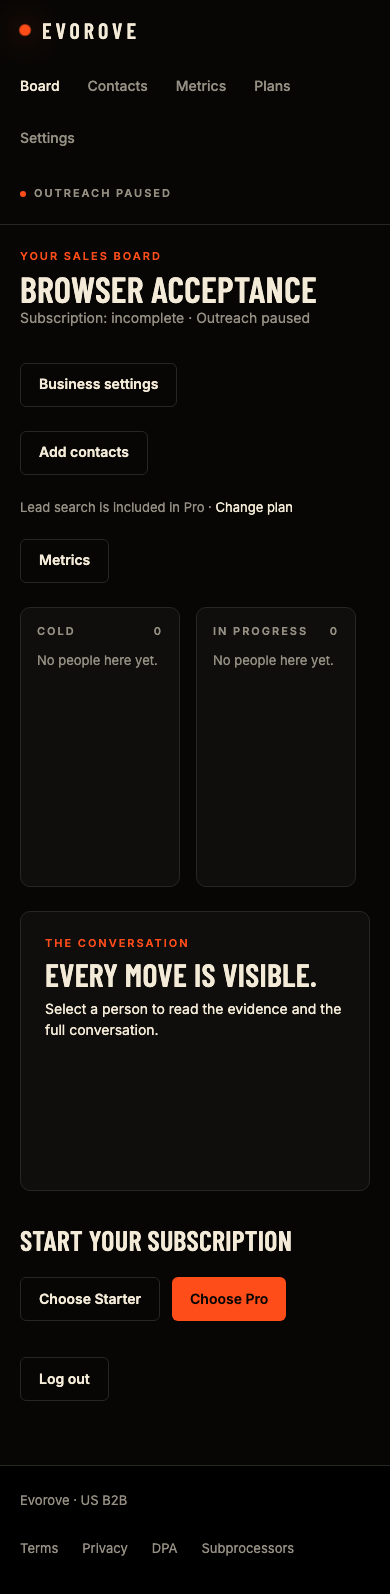
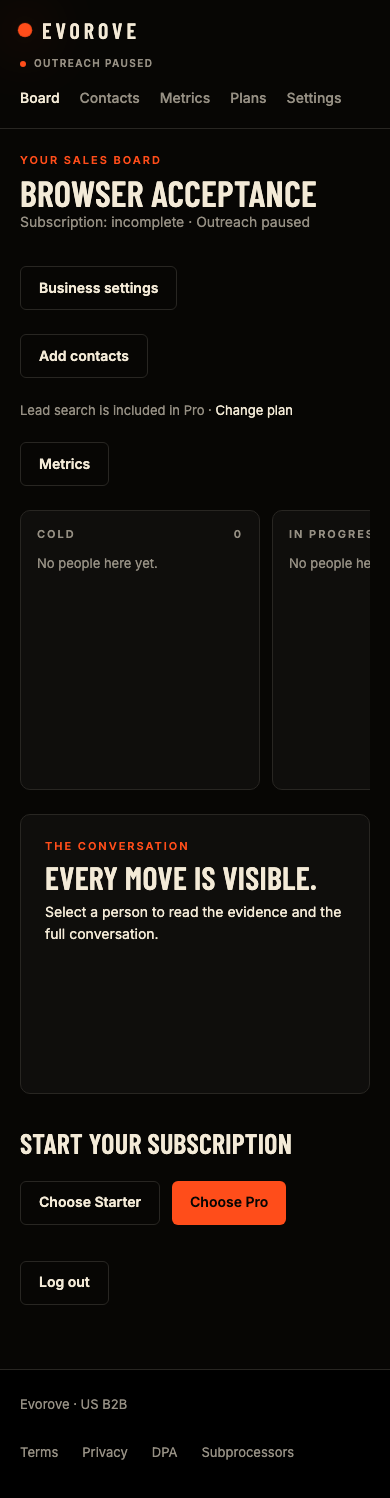
Fix night-theme contrast, offer grid, and phone board.
Keep primary button text dark on orange, show the offer as a 2×2 grid, and let the phone board scroll its four columns inside the page.

diff --git a/app/static/style.css b/app/static/style.css
@@ -17,7 +17,7 @@ h2{margin-bottom:12px;font-weight:600;font-size:clamp(32px,5vw,40px);line-height
 h3{font-size:17px;font-weight:600;line-height:1.35}
 p,li{line-height:1.55}
 a{color:var(--text);text-decoration:none;min-height:44px;display:inline-flex;align-items:center}
-a:hover{color:var(--accent)}
+a:hover:not(.ev-btn-primary):not(.button){color:var(--accent)}
 button,.button,.ev-btn-primary,.ev-btn-ghost{display:inline-flex;align-items:center;justify-content:center;min-height:44px;padding:12px 18px;border-radius:6px;font-family:Inter,system-ui,sans-serif;font-weight:600;font-size:14px;line-height:1.2;cursor:pointer;text-decoration:none}
 button,.button,.ev-btn-primary{background:var(--accent);color:var(--on-accent);border:0}
 button:hover,.button:hover,.ev-btn-primary:hover{background:var(--accent-hover);color:var(--on-accent)}
@@ -36,7 +36,7 @@ footer.site-footer{background:var(--finale);border-top:1px solid var(--line)}
 .footer-inner a{color:var(--muted);padding:12px 0}
 .site-header{max-width:1280px;margin:0 auto;padding:28px clamp(20px,5vw,48px);display:flex;flex-wrap:wrap;gap:16px;align-items:center;justify-content:space-between}
 .site-header nav,.app-header nav{display:flex;flex-wrap:wrap;gap:8px 28px;align-items:center;font-size:14px;font-weight:500}
-.site-header nav a{color:var(--muted);padding:10px 0}
+.site-header nav a:not(.ev-btn-primary){color:var(--muted);padding:10px 0}
 .site-header nav a[href="/login"]{color:var(--text)}
 .site-header .ev-btn-primary{padding:10px 18px;font-size:14px}
 .brand{gap:14px;color:var(--text);min-height:44px}
@@ -101,8 +101,8 @@ body.landing main{max-width:none;margin:0;padding:0}
 .board-frame{align-self:center;max-width:100%;border-radius:10px;border:1px solid var(--line);overflow:hidden}
 .ev-board-scale{width:1440px;height:900px;zoom:.82}
 .offer{padding-top:96px}
-.feature-grid{display:grid;grid-template-columns:repeat(auto-fit,minmax(min(300px,100%),1fr));gap:1px;background:var(--line);border:1px solid var(--line);border-radius:10px;overflow:hidden}
-.feature-grid article{background:var(--bg);padding:32px;display:flex;flex-direction:column;gap:10px}
+.feature-grid{display:grid;grid-template-columns:repeat(2,minmax(0,1fr));gap:1px;background:var(--line);border:1px solid var(--line);border-radius:10px;overflow:hidden}
+.feature-grid article{background:var(--bg);padding:32px;display:flex;flex-direction:column;gap:10px;min-width:0}
 .feature-grid p{margin:0;color:var(--muted)}
 .pricing-grid{display:grid;grid-template-columns:repeat(auto-fit,minmax(min(320px,100%),1fr));gap:24px}
 .price-card{background:var(--card);border:1px solid var(--line);border-radius:10px;padding:clamp(24px,6vw,36px);display:flex;flex-direction:column;align-items:flex-start;gap:24px}
@@ -162,11 +162,12 @@ details p{margin:12px 0 8px;color:var(--muted)}
 .bm-evidence a{font-size:13px;color:var(--muted);min-height:44px}
 .bm-next{margin:auto 0 0;font-size:13px;color:var(--muted)}
 
-.app-header{min-height:72px;padding:8px clamp(20px,5vw,48px);border-bottom:1px solid var(--line);display:flex;flex-wrap:wrap;align-items:center;justify-content:space-between;gap:12px 28px}
+.app-header{min-height:72px;padding:8px clamp(20px,5vw,48px);border-bottom:1px solid var(--line);display:grid;grid-template-columns:auto minmax(0,1fr) auto;align-items:center;gap:12px 28px;max-width:100%}
 .app-header .brand{gap:12px}
 .app-header .brand strong{font-size:22px;letter-spacing:.18em;font-weight:600}
 .app-header .ev-dot{width:10px;height:10px}
-.app-header nav a{color:var(--muted);padding:10px 0;font-weight:500}
+.app-header nav{min-width:0;justify-content:center}
+.app-header nav a{color:var(--muted);padding:10px 0;font-weight:500;white-space:nowrap}
 .app-header nav a[aria-current="page"],.app-header nav a:hover{color:var(--text)}
 .app-status{margin:0;display:flex;align-items:center;gap:8px;min-height:44px;font-size:11px;font-weight:600;letter-spacing:.18em;text-transform:uppercase;color:var(--muted)}
 .status-dot{width:6px;height:6px;border-radius:999px;background:var(--accent);display:inline-block;flex:none}
@@ -224,11 +225,32 @@ code{color:var(--text)}
 .htmx-request{opacity:.65}
 :focus-visible{outline:3px solid var(--accent);outline-offset:3px}
 ::selection{background:var(--accent);color:var(--on-accent)}
+.site-header nav a.ev-btn-primary,
+a.ev-btn-primary,
+button.ev-btn-primary,
+a.button:not(.secondary){background:#ff4d1a;color:#070604}
+.site-header nav a.ev-btn-primary:hover,
+a.ev-btn-primary:hover,
+button.ev-btn-primary:hover,
+a.button:not(.secondary):hover{background:#e04417;color:#070604}
 
 @media(max-width:1280px){.ev-board-scale{zoom:.6}}
 @media(max-width:1050px){.workspace{flex-direction:column}#person-pane{width:100%}}
 @media(max-width:900px){.ev-board-scale{zoom:.42}}
-@media(max-width:720px){.ev-nav-link{display:none}.ev-blip{font-size:9px;letter-spacing:.12em}}
+@media(max-width:720px){
+.ev-nav-link{display:none}
+.ev-blip{font-size:9px;letter-spacing:.12em}
+.feature-grid{grid-template-columns:minmax(0,1fr)}
+.workspace{flex-direction:column;min-width:0;max-width:100%}
+.board{display:flex;flex-wrap:nowrap;width:100%;max-width:100%;min-width:0;overflow-x:auto;scroll-snap-type:x mandatory;gap:12px}
+.column{display:flex;flex:0 0 240px;width:240px;scroll-snap-align:start}
+#person-pane{width:100%}
+.app-header{grid-template-columns:minmax(0,1fr);align-items:start;gap:4px 0}
+.app-header .brand{grid-row:1}
+.app-status{grid-row:2;min-height:0;margin:0;font-size:10px;letter-spacing:.14em;justify-self:start}
+.app-header nav{grid-row:3;width:100%;max-width:100%;min-width:0;flex-wrap:nowrap;justify-content:flex-start;overflow-x:auto;gap:20px}
+.app-header nav a{flex:none}
+}
 @media(max-width:600px){.ev-hero-h1{font-size:clamp(84px,26vw,140px) !important}.ev-board-scale{zoom:.24}.page-heading{align-items:flex-start}}
 @media(max-width:360px){.ev-board-scale{zoom:.19}}
 @media(prefers-reduced-motion:reduce){.ev-dot,.ev-ring,.ev-sweep,.ev-blip{animation:none}}

diff --git a/app/templates/pricing_cards.html b/app/templates/pricing_cards.html
@@ -1,1 +1,1 @@
-<div class="pricing-grid"><article class="price-card"><p class="eyebrow">Starter · Your contacts</p><h3>Put your contacts<br>into motion.</h3><p class="price">$199<span>/month</span></p><ul><li>Sell to contacts you add by CSV or one at a time</li><li>A first email grounded in the real pain you describe</li><li>Email replies and objection handling</li><li>Your offer with your payment link</li><li>Payment recorded → Done on your board</li></ul><p class="muted">Lead search is included in Pro.</p>{% if business is defined %}<form method="post" action="{{ '/billing/portal' if business.ls_subscription_id else '/billing/checkout/starter' }}"><input type="hidden" name="csrf" value="{{ csrf }}"><button class="secondary">Choose Starter</button></form>{% else %}<a class="button secondary" href="/signup">Choose Starter</a>{% endif %}<p>Cancel anytime.</p></article><article class="price-card featured"><p class="eyebrow">Pro · Find and sell</p><h3>Find the pain.<br>Keep the sale moving.</h3><p class="price">$499<span>/month</span></p><ul><li>Everything in Starter</li><li>Search for US companies with visible pain</li><li>Evidence quotes and source links on each found person</li><li>Daily lead search across US companies</li><li>Search preview before adding people to your board</li></ul><p class="muted">Search volume depends on verified matches.</p>{% if business is defined %}<form method="post" action="{{ '/billing/portal' if business.ls_subscription_id else '/billing/checkout/pro' }}"><input type="hidden" name="csrf" value="{{ csrf }}"><button class="">Choose Pro</button></form>{% else %}<a class="button " href="/signup">Choose Pro</a>{% endif %}<p>Cancel anytime.</p></article></div>
+<div class="pricing-grid"><article class="price-card"><p class="eyebrow">Starter · Your contacts</p><h3>Put your contacts<br>into motion.</h3><p class="price">$199<span>/month</span></p><ul><li>Sell to contacts you add by CSV or one at a time</li><li>A first email grounded in the real pain you describe</li><li>Email replies and objection handling</li><li>Your offer with your payment link</li><li>Payment recorded → Done on your board</li></ul><p class="muted">Lead search is included in Pro.</p>{% if business is defined %}<form method="post" action="{{ '/billing/portal' if business.ls_subscription_id else '/billing/checkout/starter' }}"><input type="hidden" name="csrf" value="{{ csrf }}"><button class="secondary">Choose Starter</button></form>{% else %}<a class="button secondary" href="/signup">Choose Starter</a>{% endif %}<p>Cancel anytime.</p></article><article class="price-card featured"><p class="eyebrow">Pro · Find and sell</p><h3>Find the pain.<br>Keep the sale moving.</h3><p class="price">$499<span>/month</span></p><ul><li>Everything in Starter</li><li>Search for US companies with visible pain</li><li>Evidence quotes and source links on each found person</li><li>Search preview before adding people to your board</li></ul><p class="muted">Search volume depends on verified matches.</p>{% if business is defined %}<form method="post" action="{{ '/billing/portal' if business.ls_subscription_id else '/billing/checkout/pro' }}"><input type="hidden" name="csrf" value="{{ csrf }}"><button class="ev-btn-primary">Choose Pro</button></form>{% else %}<a class="button ev-btn-primary" href="/signup">Choose Pro</a>{% endif %}<p>Cancel anytime.</p></article></div>

diff --git a/tests/browser/test_forms.py b/tests/browser/test_forms.py
@@ -124,3 +124,40 @@ def test_board_desktop_and_mobile_screenshots(page, live_app):
         page.evaluate('() => document.fonts.ready')
         assert page.evaluate('() => document.documentElement.scrollWidth === window.innerWidth')
         page.screenshot(path=str(output / f'board-{label}.png'), full_page=True)
+        if viewport['width'] == 390:
+            phone = page.evaluate('''() => {
+              const columns = [...document.querySelectorAll('.column')];
+              const board = document.querySelector('.board');
+              const pane = document.querySelector('#person-pane');
+              const nav = document.querySelector('.app-header nav');
+              const links = [...nav.querySelectorAll('a')];
+              const brand = document.querySelector('.app-header .brand').getBoundingClientRect();
+              const status = document.querySelector('.app-status').getBoundingClientRect();
+              const tops = links.map((link) => link.getBoundingClientRect().top);
+              return {
+                titles: columns.map((column) => column.querySelector('h2').textContent),
+                displays: columns.map((column) => getComputedStyle(column).display),
+                tops: columns.map((column) => column.getBoundingClientRect().top),
+                overflowX: getComputedStyle(board).overflowX,
+                snap: getComputedStyle(board).scrollSnapType,
+                paneTop: pane.getBoundingClientRect().top,
+                boardBottom: board.getBoundingClientRect().bottom,
+                scrollWidth: document.documentElement.scrollWidth,
+                innerWidth: window.innerWidth,
+                flexWrap: getComputedStyle(nav).flexWrap,
+                linkTops: tops,
+                statusBelowLogo: status.top >= brand.bottom - 1,
+              };
+            }''')
+            text = ' '.join(phone['titles'])
+            for name in ('Cold', 'In progress', 'Offer made', 'Done'):
+                assert name in text
+            assert phone['displays'] and all(value != 'none' for value in phone['displays'])
+            assert max(phone['tops']) - min(phone['tops']) < 2
+            assert phone['overflowX'] == 'auto'
+            assert 'x' in phone['snap']
+            assert phone['paneTop'] >= phone['boardBottom'] - 1
+            assert phone['scrollWidth'] == phone['innerWidth']
+            assert phone['flexWrap'] == 'nowrap'
+            assert max(phone['linkTops']) - min(phone['linkTops']) < 2
+            assert phone['statusBelowLogo']

diff --git a/tests/browser/test_landing_layout.py b/tests/browser/test_landing_layout.py
@@ -36,3 +36,33 @@ def test_landing_widths_fit_and_hero_clears_radar(page, live_app):
             expected = max(84, min(168, width * .13))
         assert abs(metrics['fontSize'] - expected) < 1.5, metrics
         assert abs(metrics['zoom'] - expected_zoom[width]) < .011, metrics
+        columns = page.locator('.feature-grid').evaluate(
+            '(grid) => getComputedStyle(grid).gridTemplateColumns.split(" ").filter(Boolean).length')
+        assert columns == (1 if width <= 720 else 2), (width, columns)
+
+
+def _paint(page, locator):
+    return locator.evaluate('''(el) => {
+      const style = getComputedStyle(el);
+      return {color: style.color, background: style.backgroundColor};
+    }''')
+
+
+def test_primary_button_text_differs_from_its_background(page, live_app):
+    base, _, _ = live_app
+    page.goto(base + '/', wait_until='networkidle')
+    for width in (1440, 390):
+        page.set_viewport_size({'width': width, 'height': 900})
+        buttons = page.locator('a.ev-btn-primary, button.ev-btn-primary, a.button:not(.secondary)')
+        assert buttons.count() >= 4
+        for index in range(buttons.count()):
+            button = buttons.nth(index)
+            resting = _paint(page, button)
+            assert resting['color'] != resting['background'], (width, index, resting)
+            assert resting['color'] == 'rgb(7, 6, 4)', (width, index, resting)
+            assert resting['background'] == 'rgb(255, 77, 26)', (width, index, resting)
+            button.hover()
+            hovered = _paint(page, button)
+            assert hovered['color'] != hovered['background'], (width, index, hovered)
+            assert hovered['color'] == 'rgb(7, 6, 4)', (width, index, hovered)
+            assert hovered['background'] == 'rgb(224, 68, 23)', (width, index, hovered)

diff --git a/tests/test_pricing.py b/tests/test_pricing.py
@@ -254,7 +254,8 @@ def test_pro_search_limit_counts_the_owner_local_day_not_the_utc_day(client, set
 
 def test_pro_card_and_faq_describe_search_without_volume_promises(client):
     landing, faq = client.get('/').text, client.get('/faq').text
-    assert 'Daily lead search across US companies' in landing
+    assert 'Search for US companies with visible pain' in landing
+    assert 'Daily lead search across US companies' not in landing
     assert '20 verified new leads' not in landing
     assert 'adds lead search for US companies with visible pain.' in faq
     assert '20 verified new leads' not in faq
